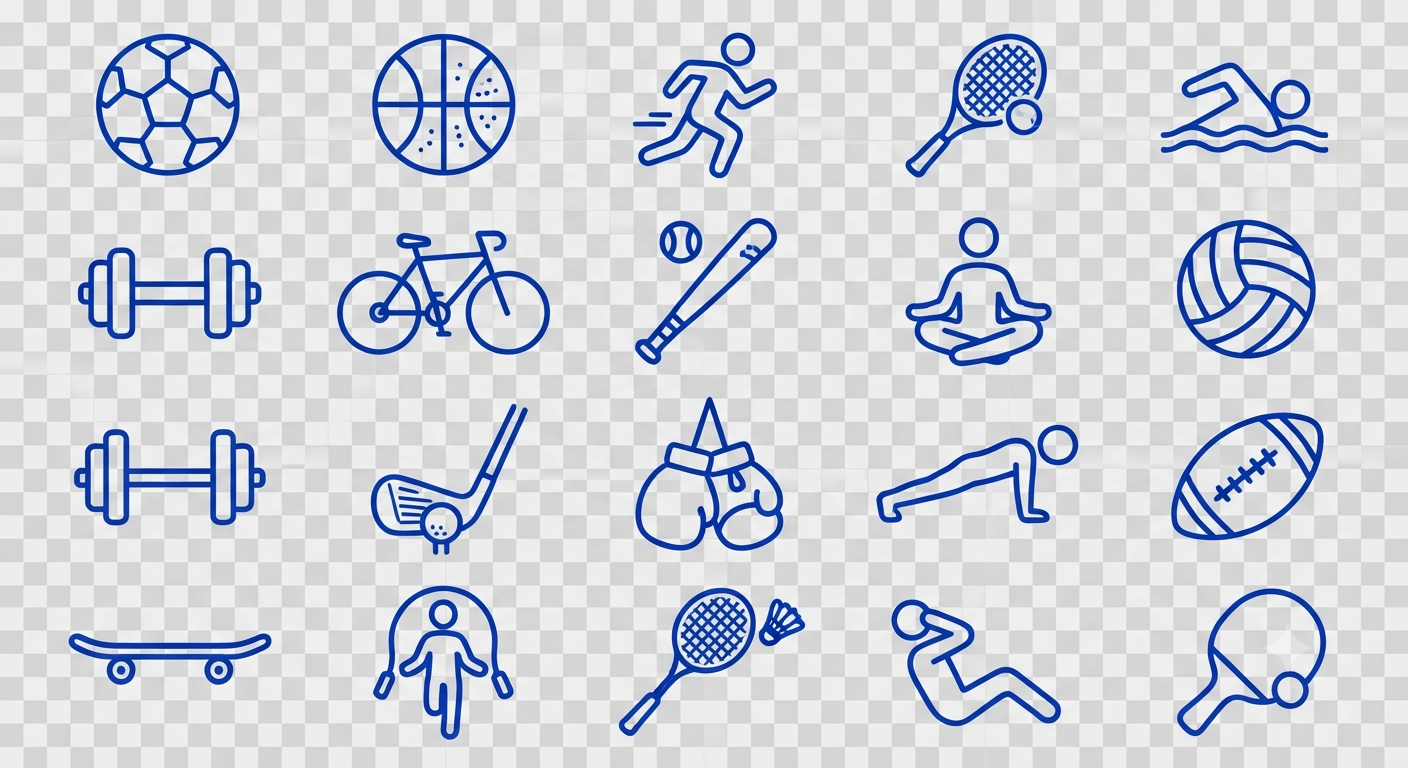
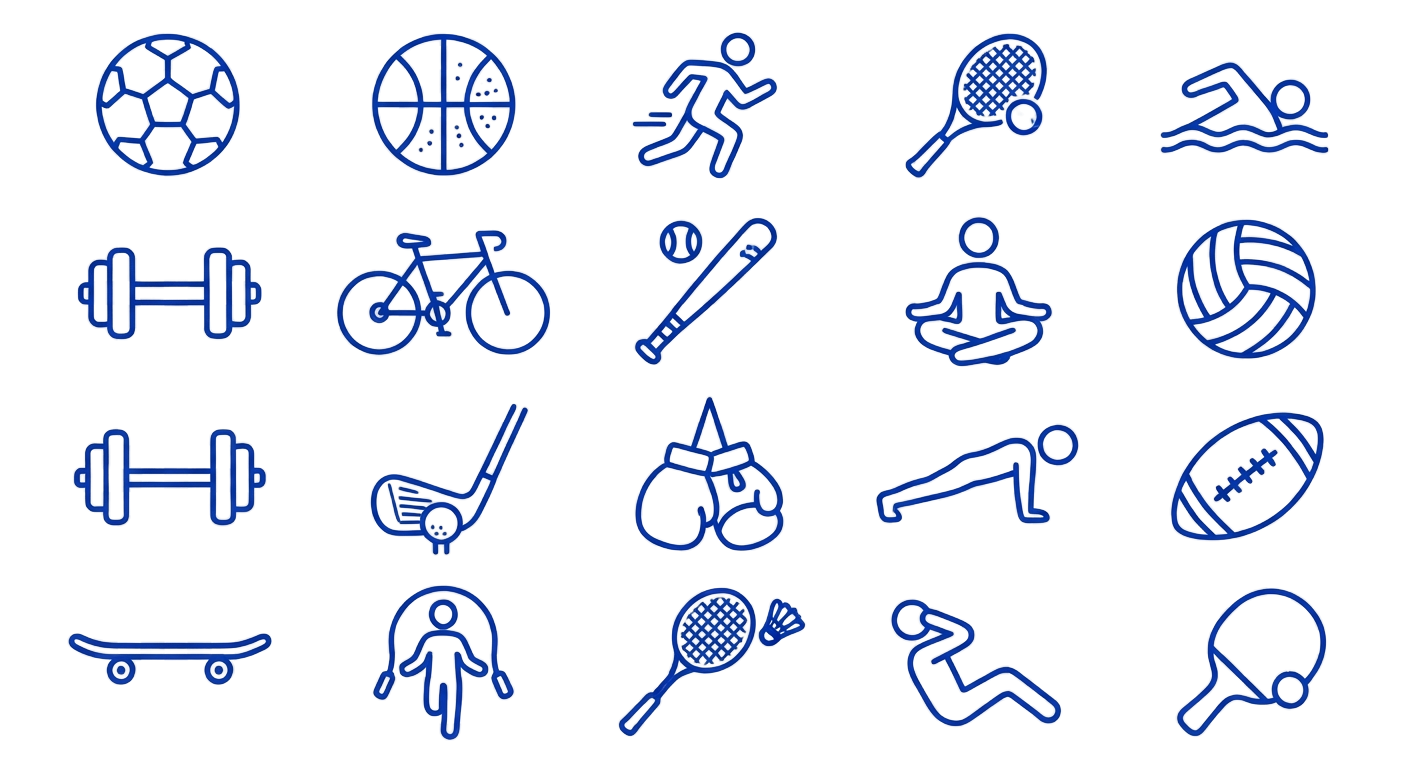
Fix ProfileIcons.png having no real transparency
The source PNG was RGBA but every pixel had alpha=255 - the
checkerboard was baked into the RGB data as literal light-gray
pixels, not real transparency, so no CSS fix could ever work.
Reprocessed the image: separated icon strokes (saturated blue) from
the neutral-gray checkerboard by color saturation and re-encoded with
real per-pixel alpha, smoothed at edges to avoid jagged lines.

diff --git a/index.html b/index.html
@@ -417,7 +417,7 @@ const STORE_KEY = 'healthscore_v1';
 // change from here on so a reload can be visually confirmed against what was
 // actually deployed (distinct from STORE_KEY, which is the data schema key
 // and unrelated to app code version).
-const APP_VERSION = '1.4.26';
+const APP_VERSION = '1.4.27';
 
 function defaultState(){
   return {
